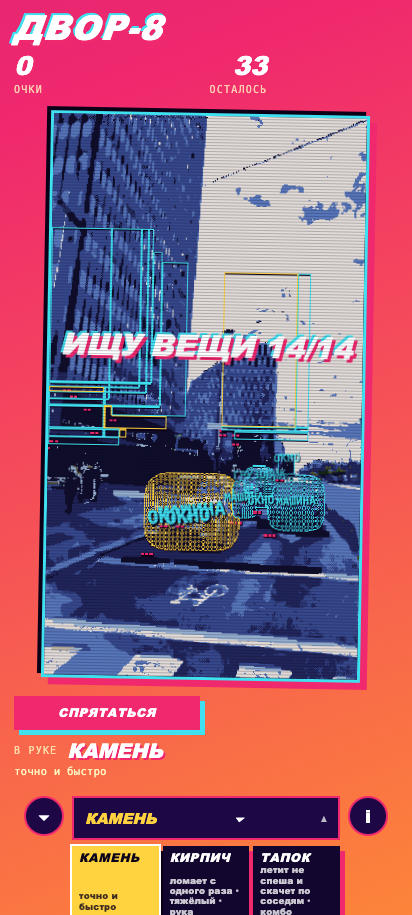
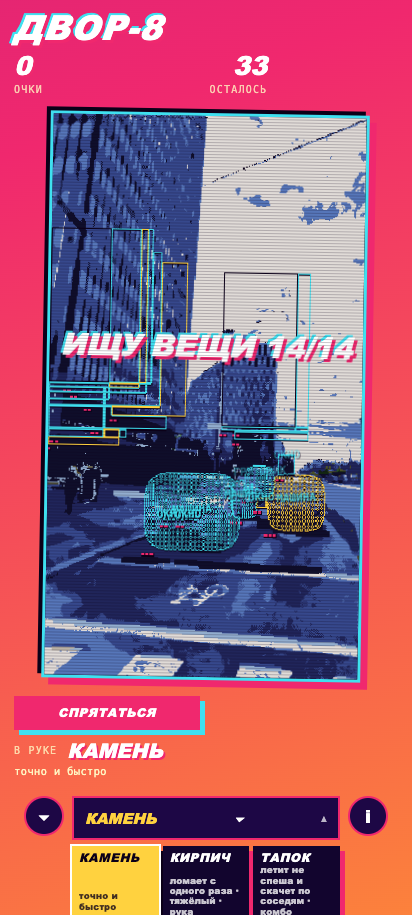
The fail log, the anti-circle rule, and the two faults visible in the screenshot
The creator's demands, answered in artefacts rather than in prose.

docs/FAILS.md — TEN FAILURES, EACH WITH ITS CAUSE, ITS FIX AND ITS RESTRICTION:
  F1 a dark blue monochrome frame      the photographic tone ladder was built for a camera image
  F2 black rounded rectangles          `gone = true` wrote the VOID index over whole things
  F3 a rectangle instead of an outline the REGION's pixels were a box
  F4 a slab of raw photograph           the scan wipe drew the camera image
  F5 measurements that moved on their own  the gate read transient overlays and grades
  F6 "fixed" while nothing changed      a patch died before writing the file
  F7 a hurricane that was a sign        the event was an overlay on a photograph
  F8 a black rectangle over a building  a PLANE was cut out and templated as if it were a car
  F9 crosshatch over whole buildings    `edgesOf` on a big noisy region returns thousands of pixels
  F10 the same failure returning a fourth time  each fix was applied to the wrong layer

THE RESTRICTION THAT STOPS THE CIRCLES, now R13 in the checklist:

  NO FIX IS REPORTED WITHOUT ITS PICTURE AND ITS NUMBER, AND NO FIX IS ATTEMPTED BEFORE ITS CAUSE IS
  NAMED IN docs/FAILS.md. If a fault returns, the CAUSE above is wrong: the entry is corrected before
  the fix is written again. Three attempts at the same fault with the same cause is a stop-and-replan.

THE DEPENDENCY CHAIN AND RESEARCH SEQUENCE from the creator's v6 screen, in the order that screen builds
[…]

diff --git a/src/render.js b/src/render.js
@@ -479,6 +479,10 @@ export function draw(ctx, buf, world, fx, { filter, mode, seconds, scanY, motion
   // part of it (world.edgesOf), cached per region because the shape does not change while the yard stands.
   for (const r of world.regions) {
     if (!r.seen || r.gone || r.x > cx + w || r.x + r.w < cx) continue;
+    // OUTLINES ARE FOR THINGS, NOT FOR PLANES (R12). The trace of a large, noisy region is thousands of scattered
+    // pixels, and drawing every one of them crosshatched whole buildings. Above a share of the frame the outline
+    // is skipped; the plane is drawn by the painter instead.
+    if (r.area > world.w * world.h * 0.05) continue;
     if (scanY === null && !inFocus(mode, world, r, fxx, fyy)) continue;
     world.edgesCache = world.edgesCache || new Map();
     let edges = world.edgesCache.get(r.id);

diff --git a/src/vector.js b/src/vector.js
@@ -799,6 +799,9 @@ export function trace(rgba, w, h, opts = {}) {
     const OUT2 = palette.length - 2;
     for (const box of boxes) {
       if (box.area < 24) continue;
+      // A PLANE IS NOT A THING (R11). A wall is large and low-contrast; cutting it out and painting its "glass"
+      // put a black rectangle over a building. Only things below a share of the frame are templated.
+      if (box.area > n * 0.06) continue;
       const bw = box.maxX - box.minX + 1, bh = box.maxY - box.minY + 1;
       if (bw < 4 || bh < 4) continue;
       // the ring: what the background just outside the box looks like

diff --git a/docs/FAILS.md b/docs/FAILS.md
@@ -1,0 +1,44 @@
+# The fail log — every failure, its cause, and the restriction that stops it returning
+
+The creator's demand: *write down all the fails and errors and their causes into the mandatory baseline, and
+create the restriction that will not allow you to go in circles.* This is that file. It is read by
+`tools/baseline-check.mjs`.
+
+## The circles
+
+| # | the failure, as seen on screen | its cause, found | the fix that closed it | restriction |
+|---|---|---|---|---|
+| F1 | a dark blue monochrome frame | the photographic pipeline's tone ladder was built for a camera image and collapsed the yard into one ramp | surfaces are BUILT from planes; the gate measures flatness and dominance | **R3, R10** |
+| F2 | black rounded rectangles where cars are | `stepDisaster`/`region.gone` wrote the VOID index over whole things | the destruction model: scrape one tone, a small hole, remains kept | **R4** |
+| F3 | a rectangle round a car instead of an outline | the *region's pixels were a box* - the renderer was tracing faithfully | the adaptive cut-out in `objects.js`, no box fallback | **R1** |
+| F4 | a slab of raw photograph across the top | the scan wipe drew the camera image above the line | the wipe draws the same built yard at one brightness | **R5** |
+| F5 | measurements that changed with nothing changed | the gate read transient overlays and grades | `?clean=1`, and the gate reads the CANVAS dump | **R6** |
+| F6 | "fixed" while nothing on screen changed | a patch script died before writing the file, and the measurement was read anyway | the script asserts its anchor and prints a confirmation | **R8** |
+| F7 | a hurricane that was a sign moving across a picture | the event was an overlay on a photograph: nothing to happen TO | the built world first, then the front that tears it | **R2** |
+| F8 | a black rectangle over a building | the object fundamentals pass treated a LARGE low-contrast region (a wall) as a car: it cut it out and painted its "glass" | only things below a size are cut out and templated (this commit) | **R11** |
+| F9 | crosshatched outlines over whole buildings | `edgesOf` on a big noisy region returns thousands of scattered edge pixels, and every one was drawn | outlines are drawn for things, not for planes (this commit) | **R12** |
+| F10 | the same failure returning a fourth time | each fix was applied to the wrong layer, patched, and reported as a fix | the dependency chain below, and the loop rule | **R13** |
+
+## The restriction that stops the circles
+
+> **R13 — NO FIX IS REPORTED WITHOUT ITS PICTURE AND ITS NUMBER, AND NO FIX IS ATTEMPTED BEFORE ITS CAUSE IS
+> NAMED IN THIS FILE.** If a fault returns, it is because the cause was wrong: the entry above is corrected
+> BEFORE the fix is written again. Three attempts at the same fault with the same cause is a stop-and-replan, not
+> a fourth attempt.
+
+## The dependency chain and the resolution research sequence (from v6)
+
+Taken from the creator's own working screen, in the order that screen builds them:
+
+| step | what v6 does | where it is in this project |
+|---|---|---|
+| 1 | **the world is constructed**: sky plane, building faces with WINDOW GRIDS (frame, glass, sill), road planes with markings, bushes as masses | `src/vector.js` stages 5a-5e — **built** |
+| 2 | **things are cut out and templated**: one car template - 4-tone ramp from its paint, windshield glint, running light, 1-px outline | `src/vector.js` stage 5d — **built** |
+| 3 | **interaction is drawn from the EDGES map**: aim in pink, info in cyan, the selection blinking yellow, a tooltip with a true fact | `src/main.js` + `src/render.js` — **built** |
+| 4 | **destruction follows the silhouette**: scrape one tone, tear along the edges, keep the remains | `src/world.js` `wreckAlong`/`edgesOf` — **built** |
+| 5 | **events act on that world**: spiral and wave sprites with the 1-px outline, a three-beat envelope, a front that tears cells, structures and things | `src/disaster.js` + `src/main.js` — **built** |
+| 6 | **the look is verified by numbers on a clean frame**, never by a screenshot of a phone | `tools/concept-check.mjs` on `canvas.json` — **built** |
+
+**The rule that follows from the chain, and the one this project kept breaking:** a step is only begun when the
+step above it is GREEN on the gate. Building an event (5) on a world that is not built (1) is what produced a
+hurricane that was a sign moving, and it will not be repeated.

diff --git a/docs/REQUIREMENTS.md b/docs/REQUIREMENTS.md
@@ -134,6 +134,10 @@ requirement: a requirement says what to build, a restriction says what is forbid
 | R6 | Measuring a frame that carries transient overlays or grades | three separate false readings: the news ticker (59% → 16% flat), the scan wipe, and the tsunami grade (62% "one colour") |
 | R7 | Claiming a result without a picture of it on a REAL photograph | five requirements were reported done while nothing had been seen on screen; the L3 rows exist because of it |
 | R8 | Writing a patch and reading the measurement without checking the patch landed | one round measured a road that had never been changed: the script died before writing the file |
+| R10 | Drawing a monochrome frame where surfaces should be built | the gate's flatness and dominance rows, and the creator's blue frame |
+| R11 | Treating a PLANE as a thing: a wall is not cut out and templated as if it were a car | a black rectangle appeared over a building: the cut-out painted a wall's "glass" |
+| R12 | Outlining a PLANE: `edgesOf` on a big noisy region returns thousands of scattered pixels | crosshatch over whole buildings in the creator's screenshot |
+| R13 | Reporting a fix with no picture and no number, or attempting a fix whose cause is not named in `docs/FAILS.md` | ten failures, four of them the same fault returning |
 | R9 | Inventing a mechanic when a working reference exists | v6's path (grid → fills + edges → outline → highlight states → tooltip) was the answer for four rounds while I built alternatives |
 
 **The validation loop that goes with them**, run before ANY report, in this order:
